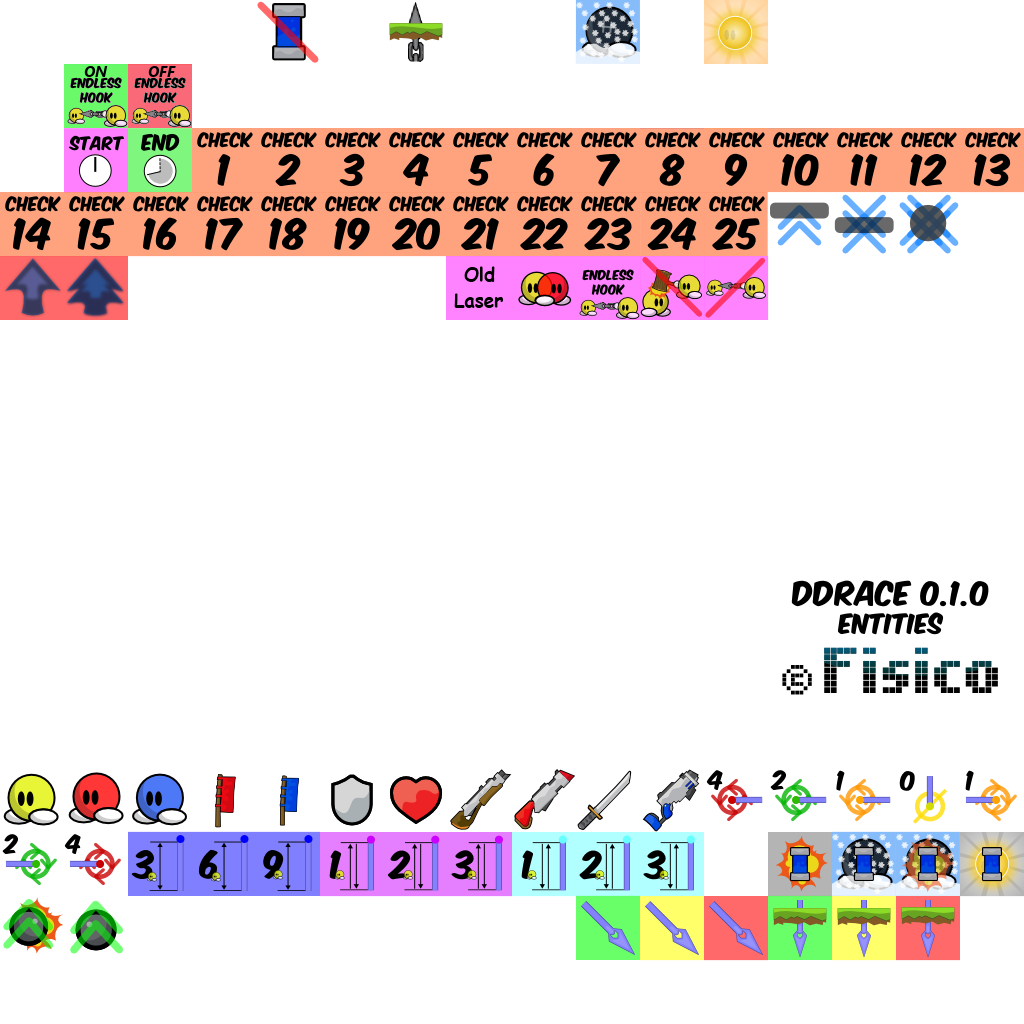
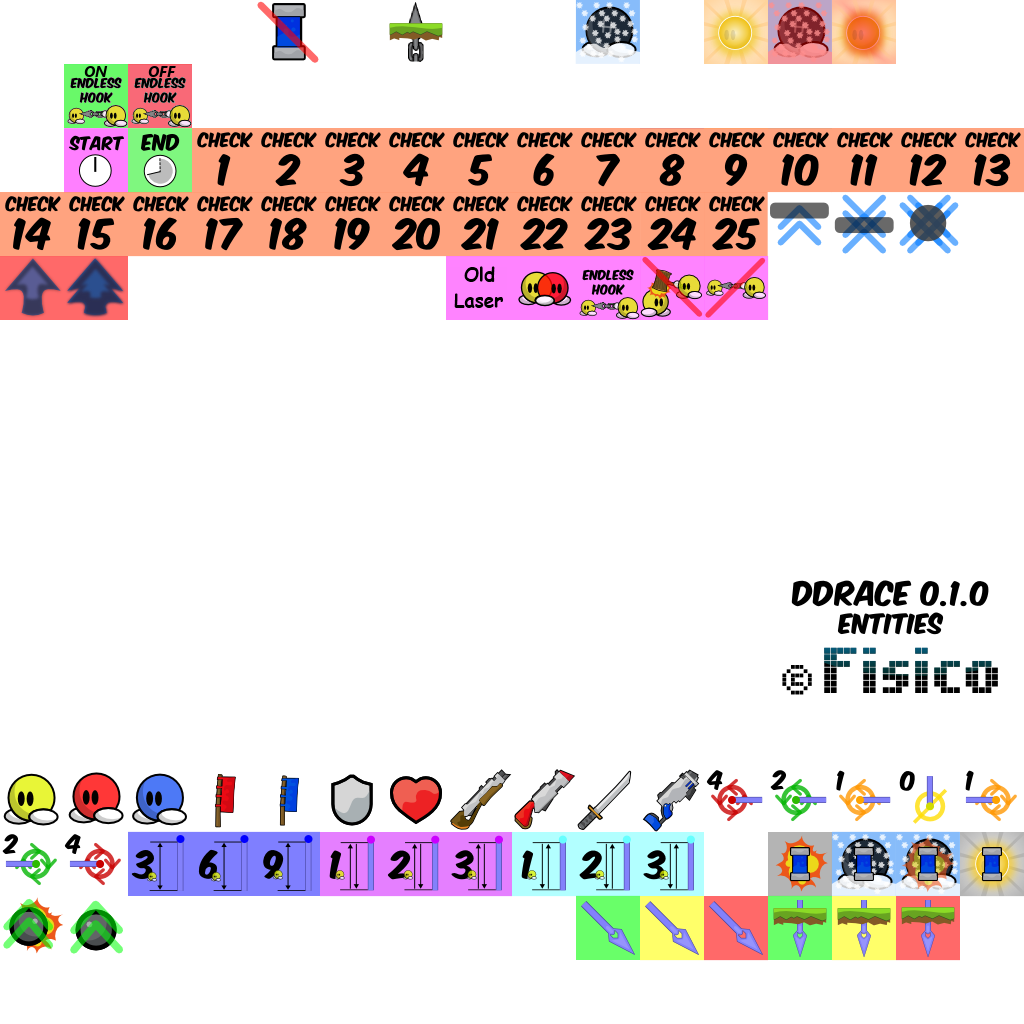
deepfreeze tiles

Changed region(s): [[0.75, 0.0, 0.875, 0.0625]]

diff --git a/src/game/collision.cpp b/src/game/collision.cpp
@@ -119,7 +119,7 @@ void CCollision::Init(class CLayers *pLayers)
 				}
 
 				// DDRace tiles
-				if(Index == TILE_THROUGH || (Index >= TILE_FREEZE && Index <= TILE_UNFREEZE) || (Index >= TILE_SWITCHOPEN && Index<=TILE_BOOST) || (Index >= TILE_BEGIN && Index <= TILE_STOPA) || Index == TILE_CP || Index == TILE_CP_F || (Index >= TILE_OLDLASER && Index <= TILE_NPH) || (Index >= TILE_EHOOK_START && Index <= TILE_EHOOK_END))
+				if(Index == TILE_THROUGH || (Index >= TILE_FREEZE && Index <= TILE_UNFREEZE) || (Index >= TILE_SWITCHOPEN && Index<=TILE_BOOST) || (Index >= TILE_BEGIN && Index <= TILE_STOPA) || Index == TILE_CP || Index == TILE_CP_F || (Index >= TILE_OLDLASER && Index <= TILE_NPH) || (Index >= TILE_EHOOK_START && Index <= TILE_EHOOK_END) || (Index >= TILE_DFREEZE && Index <= TILE_DUNFREEZE))
 					m_pFront[i].m_Index = Index;
 			}
 		}
@@ -145,7 +145,7 @@ void CCollision::Init(class CLayers *pLayers)
 			}
 
 			// DDRace tiles
-			if(Index == TILE_THROUGH || (Index >= TILE_FREEZE && Index <= TILE_UNFREEZE) || (Index >= TILE_SWITCHOPEN && Index<=TILE_BOOST) || (Index >= TILE_BEGIN && Index <= TILE_STOPA) || Index == TILE_CP || Index == TILE_CP_F || (Index >= TILE_OLDLASER && Index <= TILE_NPH) || (Index >= TILE_EHOOK_START && Index <= TILE_EHOOK_END))
+			if(Index == TILE_THROUGH || (Index >= TILE_FREEZE && Index <= TILE_UNFREEZE) || (Index >= TILE_SWITCHOPEN && Index<=TILE_BOOST) || (Index >= TILE_BEGIN && Index <= TILE_STOPA) || Index == TILE_CP || Index == TILE_CP_F || (Index >= TILE_OLDLASER && Index <= TILE_NPH) || (Index >= TILE_EHOOK_START && Index <= TILE_EHOOK_END) || (Index >= TILE_DFREEZE && Index <= TILE_DUNFREEZE))
 				m_pTiles[i].m_Index = Index;
 		}
 	}

diff --git a/src/game/server/entities/character.cpp b/src/game/server/entities/character.cpp
@@ -778,6 +778,8 @@ void CCharacter::Tick()
 	m_DoSplash = false;
 	if (g_Config.m_SvEndlessDrag || m_EndlessHook)
 		m_Core.m_HookTick = 0;
+	if (m_DeepFreeze && !m_Super)
+		Freeze();
 	if (m_Super && m_Core.m_Jumped > 1)
 		m_Core.m_Jumped = 1;
 	if (m_Super && g_Config.m_SvEndlessSuperHook)
@@ -997,13 +999,28 @@ void CCharacter::HandleTiles(int Index)
 	{
 		Controller->m_Teams.OnCharacterFinish(m_pPlayer->GetCID());
 	}
-	if(((m_TileIndex == TILE_FREEZE) || (m_TileFIndex == TILE_FREEZE)) && !m_Super)
+	if(((m_TileIndex == TILE_FREEZE) || (m_TileFIndex == TILE_FREEZE)) && !m_Super && !m_DeepFreeze)
 	{
 		Freeze(Server()->TickSpeed()*3);
 	}
-	else if((m_TileIndex == TILE_UNFREEZE) || (m_TileFIndex == TILE_UNFREEZE))
+	else if(((m_TileIndex == TILE_UNFREEZE) || (m_TileFIndex == TILE_UNFREEZE)) && !m_DeepFreeze)
 	{
 		UnFreeze();
+	}
+	else if(((m_TileIndex == TILE_DFREEZE) || (m_TileFIndex == TILE_DFREEZE)) && !m_Super && !m_DeepFreeze)
+	{
+		GameServer()->SendChatTarget(GetPlayer()->GetCID(),"You have been deeply freezed");
+		m_DeepFreeze = true;
+	}
+	else if(((m_TileIndex == TILE_DUNFREEZE) || (m_TileFIndex == TILE_DUNFREEZE)) && !m_Super && m_DeepFreeze)
+	{
+		GameServer()->SendChatTarget(GetPlayer()->GetCID(),"You have been thawed from deepfreeze");
+
+		if((m_TileIndex != TILE_FREEZE) && (m_TileFIndex != TILE_FREEZE)) {
+			UnFreeze();
+		}
+
+		m_DeepFreeze = false;
 	}
 	else if(((m_TileIndex == TILE_EHOOK_START) || (m_TileFIndex == TILE_EHOOK_START)) && !m_EndlessHook)
 	{

diff --git a/src/game/server/player.cpp b/src/game/server/player.cpp
@@ -285,6 +285,7 @@ void CPlayer::LoadCharacter()
 	Character->m_LastWeapon = m_PauseInfo.m_LastWeapon;
 	Character->m_HammerType = m_PauseInfo.m_HammerType;
 	Character->m_Super = m_PauseInfo.m_Super;
+	Character->m_DeepFreeze = m_PauseInfo.m_DeepFreeze;
 	Character->m_EndlessHook = m_PauseInfo.m_EndlessHook;
 	CGameControllerDDRace* Controller = (CGameControllerDDRace*)GameServer()->m_pController;
 	Controller->m_Teams.m_Core.Team(GetCID(), m_PauseInfo.m_Team);
@@ -316,6 +317,7 @@ void CPlayer::SaveCharacter()
 	m_PauseInfo.m_LastWeapon = Character->m_LastWeapon;
 	m_PauseInfo.m_HammerType = Character->m_HammerType;
 	m_PauseInfo.m_Super = Character->m_Super;
+	m_PauseInfo.m_DeepFreeze = Character->m_DeepFreeze;
 	m_PauseInfo.m_EndlessHook = Character->m_EndlessHook;
 	CGameControllerDDRace* Controller = (CGameControllerDDRace*)GameServer()->m_pController;
 	m_PauseInfo.m_Team = Controller->m_Teams.m_Core.Team(GetCID());

diff --git a/src/game/server/player.h b/src/game/server/player.h
@@ -57,6 +57,7 @@ public:
 		bool m_aHasWeapon[NUM_WEAPONS];
 		int m_HammerType;
 		bool m_Super;
+		bool m_DeepFreeze;
 		bool m_EndlessHook;
 		int m_PauseTime;
 		int m_Team;

diff --git a/src/game/mapitems.h b/src/game/mapitems.h
@@ -90,6 +90,8 @@ enum
 	TILE_FREEZE = 9,
 	TILE_TELEINEVIL,
 	TILE_UNFREEZE,
+	TILE_DFREEZE,
+	TILE_DUNFREEZE,
 	TILE_EHOOK_START = 17,
 	TILE_EHOOK_END,
 	//Switches

diff --git a/src/game/server/entities/character.h b/src/game/server/entities/character.h
@@ -123,6 +123,7 @@ public:
 	int m_FreezeTime;
 	int m_FreezeTick;
 
+	bool m_DeepFreeze;
 	bool m_EndlessHook;
 	
 	int m_Doored;
